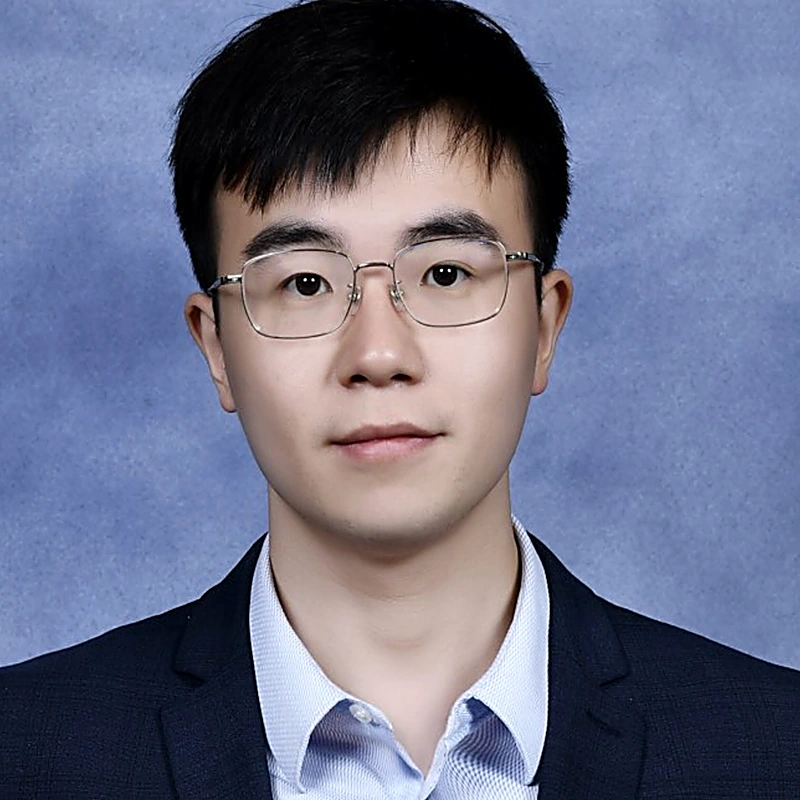
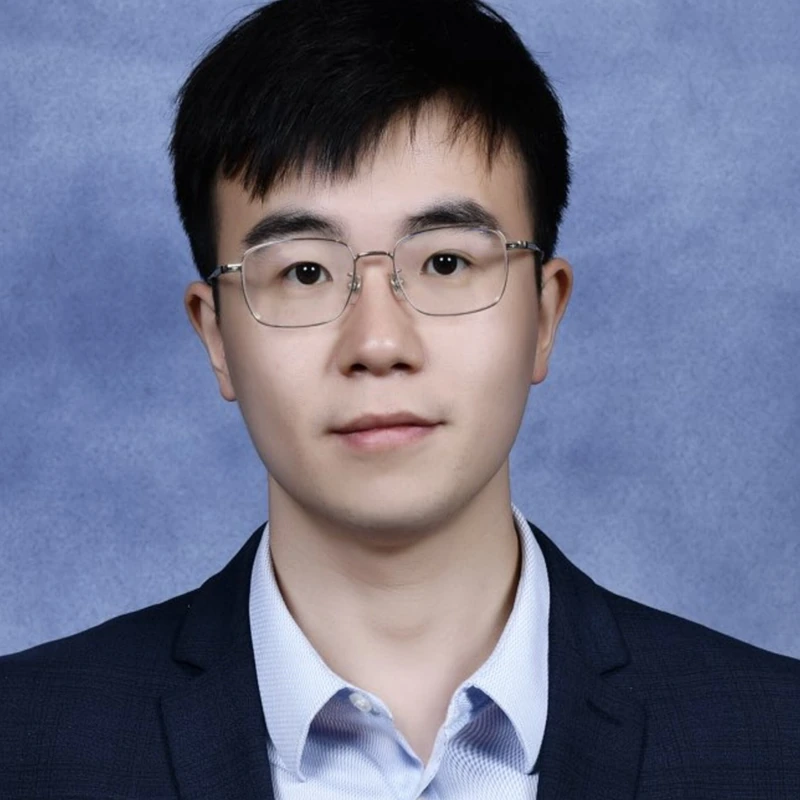
Refine homepage SEO, talks, and publication metadata

diff --git a/_includes/head.html b/_includes/head.html
@@ -15,7 +15,7 @@
 <!-- Language preference: set data-lang on <html> immediately to prevent flash -->
 <script>
   (function() {
-    var lang = localStorage.getItem('preferred-lang') || 'zh';
+    var lang = localStorage.getItem('preferred-lang') || 'en';
     document.documentElement.setAttribute('data-lang', lang);
   })();
 </script>
@@ -24,7 +24,42 @@
   html[data-lang="zh"] .lang-en { display: none !important; }
   html:not([data-lang]) .lang-en { display: none !important; }
   #lang-toggle-btn { cursor: pointer; font-weight: 600; font-size: 0.85em; letter-spacing: 0.05em; }
+  #lang-toggle,
+  #theme-toggle { display: none !important; }
 </style>
+
+{% if page.url == "/" or page.url == "/index.html" %}
+<meta name="keywords" content="冯波瀚, Bohan Feng, robotic manufacturing, process quality, robotic manufacturing process quality, motion planning, human-robot collaboration, robotic drilling">
+<script type="application/ld+json">
+{
+  "@context": "https://schema.org",
+  "@type": "Person",
+  "name": "Bohan Feng",
+  "alternateName": "冯波瀚",
+  "url": "{{ site.url }}{{ base_path }}/",
+  "image": "{{ site.url }}{{ base_path }}/images/{{ site.author.avatar }}",
+  "jobTitle": "Lecturer",
+  "affiliation": {
+    "@type": "Organization",
+    "name": "Shanghai Jiao Tong University",
+    "url": "https://en.sjtu.edu.cn/"
+  },
+  "email": "mailto:{{ site.author.email }}",
+  "sameAs": [
+    "{{ site.author.googlescholar }}",
+    "{{ site.author.orcid }}",
+    "https://github.com/{{ site.author.github }}"
+  ],
+  "knowsAbout": [
+    "robotic manufacturing",
+    "robotic manufacturing process quality",
+    "motion planning",
+    "human-robot collaboration",
+    "robotic drilling"
+  ]
+}
+</script>
+{% endif %}
 
 <!-- For all browsers -->
 <link rel="stylesheet" href="{{ base_path }}/assets/css/main.css">

diff --git a/_pages/publications.html b/_pages/publications.html
@@ -52,17 +52,21 @@ author_profile: true
 
 {% if site.publication_category %}
   {% for category in site.publication_category %}
-    {% assign title_shown = false %}
-    {% for post in site.publications reversed %}
-      {% if post.category != category[0] %}
-        {% continue %}
-      {% endif %}
-      {% unless title_shown %}
-        <h2>{{ category[1].title }}</h2><hr />
-        {% assign title_shown = true %}
-      {% endunless %}
-      {% include pub-card.html %}
-    {% endfor %}
+    {% assign category_posts = site.publications | where: "category", category[0] | sort: "date" | reverse %}
+    {% if category_posts.size > 0 %}
+      <h2>{{ category[1].title }}</h2><hr />
+      {% assign year_groups = category_posts | group_by_exp: "post", "post.date | date: '%Y'" %}
+      {% for year_group in year_groups %}
+        {% assign first_author_posts = year_group.items | where: "first_author", true | sort: "date" | reverse %}
+        {% assign other_posts = year_group.items | where_exp: "post", "post.first_author != true" | sort: "date" | reverse %}
+        {% for post in first_author_posts %}
+          {% include pub-card.html %}
+        {% endfor %}
+        {% for post in other_posts %}
+          {% include pub-card.html %}
+        {% endfor %}
+      {% endfor %}
+    {% endif %}
   {% endfor %}
 {% else %}
   {% for post in site.publications reversed %}

diff --git a/_includes/archive-single-talk.html b/_includes/archive-single-talk.html
@@ -35,8 +35,18 @@
     {% if post.read_time %}
       <p class="page__meta"><i class="fa fa-clock" aria-hidden="true"></i> {% include read-time.html %}</p>
     {% endif %}
-    {% if post.date %}<p class="page__meta"><i class="fa fa-clock" aria-hidden="true"></i> {{ post.date | date: '%B %d, %Y' }}</p>{% endif %}
-    {% if post.venue %}<p class="archive__item-excerpt" itemprop="description">{{post.type}}, {{ post.venue }},  {{post.location}} {% endif %}
+    {% if post.display_date %}
+      <p class="page__meta"><i class="fa fa-clock" aria-hidden="true"></i> {{ post.display_date }}</p>
+    {% elsif post.date %}
+      <p class="page__meta"><i class="fa fa-clock" aria-hidden="true"></i> {{ post.date | date: '%B %d, %Y' }}</p>
+    {% endif %}
+    {% if post.type or post.venue or post.location %}
+      <p class="archive__item-excerpt" itemprop="description">
+        {% if post.type %}{{ post.type }}{% endif %}
+        {% if post.venue %}{% if post.type %}, {% endif %}{{ post.venue }}{% endif %}
+        {% if post.location %}{% if post.type or post.venue %}, {% endif %}{{ post.location }}{% endif %}
+      </p>
+    {% endif %}
     {% if post.excerpt %}<p class="archive__item-excerpt" itemprop="description">{{ post.excerpt | markdownify }}</p>{% endif %}
   </article>
 </div>

diff --git a/_includes/pub-card.html b/_includes/pub-card.html
@@ -56,6 +56,13 @@
       <p class="pub-card__authors">{{ post.authors | markdownify | remove: '<p>' | remove: '</p>' | strip }}</p>
     {% endif %}
 
+    {% if post.contribution_note or post.contribution_note_zh %}
+      <p class="pub-card__note">
+        {% if post.contribution_note_zh %}<span class="lang-zh">{{ post.contribution_note_zh }}</span>{% endif %}
+        {% if post.contribution_note %}<span class="lang-en">{{ post.contribution_note }}</span>{% endif %}
+      </p>
+    {% endif %}
+
     <p class="pub-card__venue">
       <em>{{ post.venue }}</em>{% if post.date %}, {{ post.date | date: "%Y" }}{% endif %}
     </p>

diff --git a/_sass/layout/_pub-card.scss b/_sass/layout/_pub-card.scss
@@ -59,6 +59,14 @@
     line-height: 1.4;
   }
 
+  &__note {
+    margin: 0 0 0.3em;
+    font-size: 0.8em;
+    font-weight: 600;
+    color: var(--link-color, #2f5d8a);
+    line-height: 1.4;
+  }
+
   &__venue {
     margin: 0 0 0.5em;
     font-size: 0.85em;

diff --git a/assets/js/lang-switch.js b/assets/js/lang-switch.js
@@ -1,6 +1,6 @@
 (function () {
   var STORAGE_KEY = 'preferred-lang';
-  var DEFAULT_LANG = 'zh';
+  var DEFAULT_LANG = 'en';
 
   function applyLang(lang) {
     document.documentElement.setAttribute('data-lang', lang);

diff --git a/_pages/year-archive.html b/_pages/year-archive.html
@@ -3,6 +3,7 @@ layout: archive
 permalink: /year-archive/
 title: "Blog posts"
 author_profile: true
+published: false
 redirect_from:
   - /wordpress/blog-posts/
 ---

diff --git a/_pages/portfolio.html b/_pages/portfolio.html
@@ -3,6 +3,7 @@ layout: archive
 title: "Portfolio"
 permalink: /portfolio/
 author_profile: true
+published: false
 ---
 
 {% include base_path %}

diff --git a/googlee87b68da9b4194c1.html b/googlee87b68da9b4194c1.html
@@ -1,0 +1,1 @@
+google-site-verification: googlee87b68da9b4194c1.html

diff --git a/_pages/about.md b/_pages/about.md
@@ -563,17 +563,17 @@ I am a Lecturer at the [Global Institute of Future Technology (GIFT), Shanghai J
 
 **Competitions and Distinctions**
 
-- Gold Award (Advisor), China International College Students' Innovation Competition, National Finals (Aug. 2025)
-- Bronze Award, China International College Students' Innovation Competition, Shanghai Division (Aug. 2025)
-- First Prize and Outstanding Advisor, SJTU Student Social Practice (Dec. 2024)
-- Silver Award, SJTU 25th Sheng Xuanhuai Innovation and Entrepreneurship Competition (Sep. 2024)
-- Second Prize, UM-SJTU Joint Institute Sheng Xiang Innovation Competition (May 2024)
-- Silver Award, China International College Students' Innovation Competition, National Finals (Dec. 2023)
-- First Prize, Shanghai Zhixing Cup Social Practice Competition (Nov. 2023)
-- Gold Award, 9th China International College Students' "Internet+" Innovation and Entrepreneurship Competition, Shanghai Division (Oct. 2023)
-- Second Prize, 12th Certification Cup China Mathematical Contest in Modeling Challenge (May 2019)
-- Second Prize, 8th Asia-Pacific Mathematical Contest in Modeling (Jan. 2019)
-- Champion, 3rd Linchao Cup International Chinese Debate Invitational, Northeast China Region (Sep. 2018)
-- Champion, Dalian Yuheng Cup Debate Tournament (Dec. 2017)
+- Gold Award (Advisor), China International College Students' Innovation Competition, National Finals (2025)
+- Bronze Award, China International College Students' Innovation Competition, Shanghai Division (2025)
+- First Prize and Outstanding Advisor, SJTU Student Social Practice (2024)
+- Silver Award, SJTU 25th Sheng Xuanhuai Innovation and Entrepreneurship Competition (2024)
+- Second Prize, UM-SJTU Joint Institute Sheng Xiang Innovation Competition (2024)
+- Silver Award, China International College Students' Innovation Competition, National Finals (2023)
+- First Prize, Shanghai Zhixing Cup Social Practice Competition (2023)
+- Gold Award, 9th China International College Students' "Internet+" Innovation and Entrepreneurship Competition, Shanghai Division (2023)
+- Second Prize, 12th Certification Cup China Mathematical Contest in Modeling Challenge (2019)
+- Second Prize, 8th Asia-Pacific Mathematical Contest in Modeling (2019)
+- Champion, 3rd Linchao Cup International Chinese Debate Invitational, Northeast China Region (2018)
+- Champion, Dalian Yuheng Cup Debate Tournament (2017)
 
 </div>

diff --git a/_publications/2024-01-03-robotic-manipulation-knowledge-graph.md b/_publications/2024-01-03-robotic-manipulation-knowledge-graph.md
@@ -1,6 +1,7 @@
 ---
-title: "A Robotic Manipulation Framework for Industrial Human–Robot Collaboration Based on Continual Knowledge Graph Embedding"
+title: "A Robotic Manipulation Framework for Industrial Human-Robot Collaboration Based on Continual Knowledge Graph Embedding"
 authors: "**Bohan Feng**, X. Juan, X. Gao, Q. Zhou, Y. Bi"
+first_author: true
 venue: "The International Journal of Advanced Manufacturing Technology"
 date: 2024-01-03
 category: manuscripts

diff --git a/_publications/2025-01-01-safe-motion-planning-hri-digital-twin.md b/_publications/2025-01-01-safe-motion-planning-hri-digital-twin.md
@@ -1,6 +1,7 @@
 ---
 title: "Towards Safe Motion Planning for Industrial Human-Robot Interaction: A Co-Evolution Approach Based on Human Digital Twin and Mixed Reality"
 authors: "**Bohan Feng**, Z. Wang, L. Yuan, Q. Zhou, Y. Chen, Y. Bi"
+first_author: true
 venue: "Robotics and Computer-Integrated Manufacturing"
 date: 2025-01-01
 category: manuscripts
